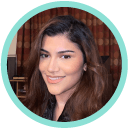
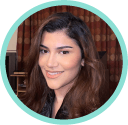
Changed team profile picture

diff --git a/index.html b/index.html
@@ -110,7 +110,7 @@
                 <nav role="navigation" class="nav-menu w-nav-menu">
                     <a href="#Features" class="nav-link w-nav-link">Features</a>
                     <a href="about-us.html" class="nav-link w-nav-link">About Us</a>
-                   <!-- <a href="http://blog.legalutopia.co.uk" class="nav-link w-nav-link">Blog</a> -->
+                    <a href="http://legalutopiablog.wordpress.com" class="nav-link w-nav-link">Blog</a> 
                     <a href="support.html" class="nav-link w-nav-link">Support</a>
                   <!--  <a href="membership.html" class="nav-link w-nav-link">Membership</a>
                     <a href="for-solicitor.html" class="nav-link w-nav-link">Solicitor</a> -->

diff --git a/about-us.html b/about-us.html
@@ -964,7 +964,7 @@
                             </div>
 
                             <a style="cursor: pointer" class="tile" data-toggle="modal" data-target="#Migi">
-                                <img style="height: 70%;" src='./images/Team Photos/Migi Jacob.png'>
+                                <img style="height: 65%;" src='./images/Team Photos/Migi Jacob.png'>
                                 <div class="text">
                                     <h3>Migi Jacob</h3>
                                     <p>Digital Marketing Assistant</p>
